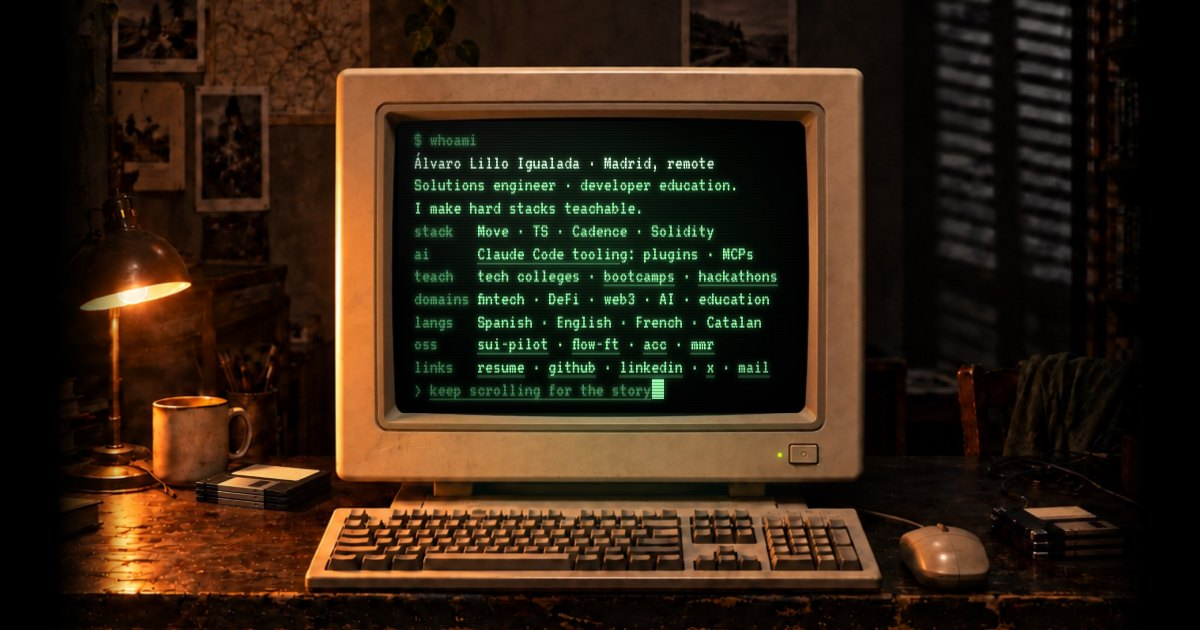
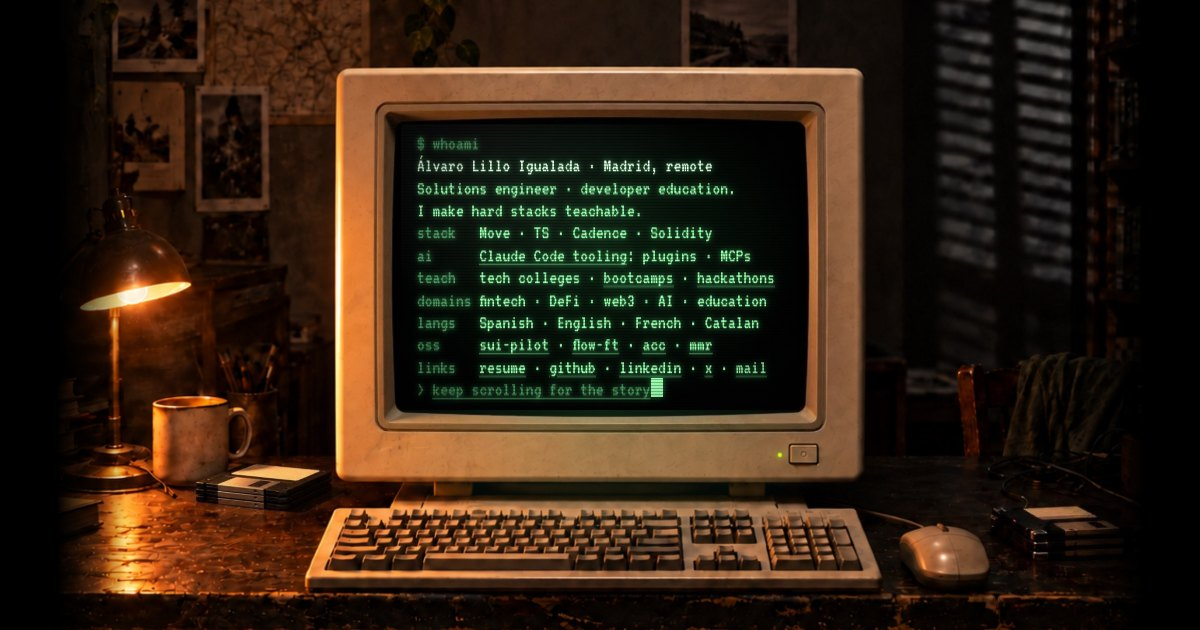
simplify
measure-screen.py takes the innermost sample per side, so a curved glass
yields the rectangle inside its corners and the INSET line is pasted as-is
again; style.css uses that line. retouch-room.py is a CLI (room, out, edit,
crop offset/size, box, feather) instead of hardcoded floppy calls; it
reproduces the committed room.jpg byte for byte. README wording split.

Changed region(s): [[0.3392, 0.2111, 0.6475, 0.6635]]

diff --git a/site/style.css b/site/style.css
@@ -43,7 +43,7 @@ a { color: inherit; }
 .stage {
   position: absolute;
   --ar: 1;
-  --sx: .3135; --sy: .3310; --sw: .3720; --sh: .2690;   /* assets/room.jpg, 2048x2048: the glass is slightly curved, so this is the rectangle inside its corners (measure-screen.py: max of L/T, min of R/B), inset ~0.5% */
+  --sx: .3165; --sy: .3339; --sw: .3660; --sh: .2633;   /* INSET line for assets/room.jpg, 2048x2048 */
   --cx: calc(var(--sx) + var(--sw) / 2);
   --cy: calc(var(--sy) + var(--sh) / 2);
   --cols: 46; --rows: 12; --adv: .4;                 /* the terminal grid; VT323 advances .4em per character */

diff --git a/tools/retouch-room.py b/tools/retouch-room.py
@@ -1,58 +1,67 @@
-"""One-off retouch of assets/room.jpg (2026-09-16): the two stacks of floppy disks were regenerated.
-2026-09-17: the monitor bezel was redone the same way with a 1024px crop at (512, 440), box (70,180,950,845),
-feather 14, prompt "a thin dark inner frame lip of the same depth on all four sides, screen a flat pure
-black rectangle, everything else exactly as it is"; the edit aligned at (0,0), outside-box diff 3.74.
+"""Paste a Nano Banana Pro edit of one region back into assets/room.jpg, leaving the rest of the frame
+unchanged apart from the JPEG re-encode.
 
-How it was done, so it can be repeated for another object:
-1. Cut a 512x512 context crop around each object with sips (offsets below).
+Recipe:
+1. Cut a square context crop around the object: `sips -c N N --cropOffset Y X room.jpg --out crop.jpg`
+   (sips takes height width, then y x).
 2. Ask Nano Banana Pro through the Higgsfield CLI to change only that object, with the crop as image 1
-   and a reference photo of the real object as image 2:
-     higgsfield generate create nano_banana_pro --prompt "..." --image-references crop.jpg \
-       --image-references reference.png --aspect_ratio 1:1 --resolution 1k --wait --json
-3. Run this script: it downsizes each edit to the crop size, aligns it to the original by brute-force
-   offset search on the pixels OUTSIDE the object box, and pastes only the box back through a feathered
-   mask. The blend bleeds about one feather radius past the box; the rest of the frame is unchanged apart
-   from the JPEG re-encode.
-Needs Pillow: python3 -m venv /tmp/venv && /tmp/venv/bin/pip install pillow && /tmp/venv/bin/python tools/retouch-room.py
-Inputs are expected in the working directory: room.jpg (original), left-edit.png, right-edit.png.
+   (and a reference photo of the real object as image 2 when there is one):
+     higgsfield generate create nano_banana_pro --prompt "Change ONLY ... everything else exactly as it is" \
+       --image-references crop.jpg --aspect_ratio 1:1 --resolution 1k --wait --json
+3. Run this script: it resizes the edit to the crop size, aligns it to the original by brute-force
+   offset search on the pixels OUTSIDE the box, and pastes only the box back through a feathered mask.
+   The blend bleeds about one feather radius past the box.
+
+Usage: retouch-room.py <room.jpg> <out.jpg> <edit.png> <X> <Y> <N> <l,t,r,b> [feather=12]
+  X Y N       the crop's offset and size in the room photo
+  l,t,r,b     the box to paste back, in crop coordinates
+Needs Pillow: python3 -m venv /tmp/venv && /tmp/venv/bin/pip install pillow && /tmp/venv/bin/python tools/retouch-room.py ...
+
+Done so far (2048x2048 room.jpg):
+  2026-09-16 floppy stacks: crops 512 at (130,1150) box 110,160,405,290 and (1536,1200) box 205,185,512,330.
+  2026-09-17 monitor bezel: crop 1024 at (512,440) box 70,180,950,845 feather 14 ("a thin dark inner frame
+             lip of the same depth on all four sides, screen a flat pure black rectangle"); aligned at (0,0).
 """
-from PIL import Image, ImageFilter, ImageChops, ImageStat
-room = Image.open('room.jpg').convert('RGB')
-def patch(edit_path, ox, oy, box, feather=12, search=6):
-    """Paste the floppy region of an edited 512-crop back into the room at (ox, oy).
-    box = (l, t, r, b) in crop coordinates. The edit is aligned by brute-force offset search on the
-    pixels OUTSIDE the box, then blended through a feathered mask."""
-    edit = Image.open(edit_path).convert('RGB').resize((512, 512), Image.LANCZOS)
-    orig = room.crop((ox, oy, ox + 512, oy + 512))
-    # alignment: minimise mean abs diff outside the box
-    outside = Image.new('L', (512, 512), 255)
-    from PIL import ImageDraw
-    ImageDraw.Draw(outside).rectangle([box[0]-20, box[1]-20, box[2]+20, box[3]+20], fill=0)
-    best = (1e9, 0, 0)
-    for dx in range(-search, search + 1):
-        for dy in range(-search, search + 1):
-            shifted = ImageChops.offset(edit, dx, dy)
-            diff = ImageChops.difference(shifted, orig).convert('L')
-            score = ImageStat.Stat(diff, mask=outside).mean[0]
-            if score < best[0]: best = (score, dx, dy)
-    score, dx, dy = best
-    base_score = ImageStat.Stat(ImageChops.difference(edit, orig).convert('L'), mask=outside).mean[0]
-    print(f'{edit_path}: outside-box mean diff {base_score:.2f} -> {score:.2f} at offset ({dx},{dy})')
-    # A best offset on the search boundary means the true offset is outside the window, and ImageChops.offset
-    # wraps pixels around the crop edge: refuse rather than composite a misaligned patch.
-    if score > base_score or abs(dx) == search or abs(dy) == search:
-        raise SystemExit(f'{edit_path}: alignment failed ({score:.2f} at {dx},{dy}); nothing written')
-    edit = ImageChops.offset(edit, dx, dy)
-    mask = Image.new('L', (512, 512), 0)
-    ImageDraw.Draw(mask).rectangle(list(box), fill=255)
-    mask = mask.filter(ImageFilter.GaussianBlur(feather))
-    blended = Image.composite(edit, orig, mask)
-    room.paste(blended, (ox, oy))
-    return score
-patch('left-edit.png', 130, 1150, (110, 160, 405, 290))
-patch('right-edit.png', 1536, 1200, (205, 185, 512, 330))
-room.save('room-fixed.jpg', quality=88, subsampling=0, optimize=True)
-import os; print('room-fixed.jpg', os.path.getsize('room-fixed.jpg'), 'bytes')
-# proof crops for review
-room.crop((130, 1150, 642, 1662)).save('fixed-left.jpg', quality=90)
-room.crop((1536, 1200, 2048, 1712)).save('fixed-right.jpg', quality=90)
+import os, sys
+from PIL import Image, ImageFilter, ImageChops, ImageStat, ImageDraw
+
+def die(msg):
+    raise SystemExit(f"retouch-room: {msg}")
+
+if len(sys.argv) not in (8, 9):
+    die(__doc__.split("Usage: ")[1].split("\n")[0])
+src, out, edit_path = sys.argv[1:4]
+try:
+    ox, oy, n = (int(v) for v in sys.argv[4:7])
+    box = tuple(int(v) for v in sys.argv[7].split(","))
+    feather = int(sys.argv[8]) if len(sys.argv) == 9 else 12
+    if len(box) != 4: raise ValueError
+except ValueError:
+    die("X, Y, N and feather must be integers and the box four comma-separated integers")
+
+room = Image.open(src).convert("RGB")
+edit = Image.open(edit_path).convert("RGB").resize((n, n), Image.LANCZOS)
+orig = room.crop((ox, oy, ox + n, oy + n))
+
+# alignment: minimise the mean abs diff outside the box
+outside = Image.new("L", (n, n), 255)
+ImageDraw.Draw(outside).rectangle([box[0] - 20, box[1] - 20, box[2] + 20, box[3] + 20], fill=0)
+def score(img):
+    return ImageStat.Stat(ImageChops.difference(img, orig).convert("L"), mask=outside).mean[0]
+search = 8
+base = score(edit)
+best = min(((score(ImageChops.offset(edit, dx, dy)), dx, dy) for dx in range(-search, search + 1) for dy in range(-search, search + 1)))
+s, dx, dy = best
+print(f"outside-box mean diff {base:.2f} -> {s:.2f} at offset ({dx},{dy})")
+# A best offset on the search boundary means the true offset is outside the window, and ImageChops.offset
+# wraps pixels around the crop edge: refuse rather than composite a misaligned patch.
+if s > base or abs(dx) == search or abs(dy) == search:
+    die(f"alignment failed ({s:.2f} at {dx},{dy}); nothing written")
+edit = ImageChops.offset(edit, dx, dy)
+
+mask = Image.new("L", (n, n), 0)
+ImageDraw.Draw(mask).rectangle(list(box), fill=255)
+mask = mask.filter(ImageFilter.GaussianBlur(feather))
+room.paste(Image.composite(edit, orig, mask), (ox, oy))
+room.save(out, quality=88, subsampling=0, optimize=True)
+print(out, os.path.getsize(out), "bytes")

diff --git a/tools/measure-screen.py b/tools/measure-screen.py
@@ -9,11 +9,13 @@ Usage: measure-screen.py <image> [threshold=45] [centre_y_fraction=0.5]
                      is not pure black; above ~90 the scan escapes the bezel and reports the room.
   centre_y_fraction  where to start the scan, as a fraction of image height (0.47 for assets/room.jpg, whose screen centre sits above the middle).
 
-Two lines are printed: the raw rectangle, and the same rectangle inset ~1.2% of its width and ~1.6%
-of its height per side so the text stays off the curved glass edge. Paste the INSET line into
-style.css. The tool refuses to print CSS when the samples do not describe one plausible screen.
+Each edge is sampled at several points and the INNERMOST sample wins (max of the left and top samples,
+min of the right and bottom), so a CRT glass whose edges bow outwards yields the rectangle inside its
+corners, where text is safe. Two lines are printed: that rectangle, and the same rectangle inset ~1.2%
+of its width and ~1.6% of its height per side so the text stays off the glass edge. Paste the INSET
+line into style.css. The tool refuses to print CSS when the samples do not describe one plausible screen.
 """
-import os, statistics, struct, subprocess, sys, tempfile
+import os, struct, subprocess, sys, tempfile
 
 def die(msg):
     raise SystemExit(f"measure-screen: {msg}")
@@ -95,7 +97,7 @@ for name, s, span in (("left", L, w), ("right", R, w), ("top", Tp, h), ("bottom"
         die(f"only {len(s)} {name} samples (need {MIN}); the start point is probably not on the screen")
     if max(s) - min(s) > 0.08 * span:
         die(f"{name} samples disagree by more than 8% of the image; the scan hit more than one dark object")
-l, r, t, b = statistics.median(L), statistics.median(R), statistics.median(Tp), statistics.median(B)
+l, r, t, b = max(L), min(R), max(Tp), min(B)   # innermost sample per side: safe inside a curved glass
 if not (0 < l < r < w - 1 and 0 < t < b < h - 1):
     die(f"the rectangle runs to the image edge: left={l} right={r} top={t} bottom={b}")
 aspect = (r - l) / (b - t)

diff --git a/README.md b/README.md
@@ -5,7 +5,7 @@ Personal site of Álvaro Lillo Igualada. Static HTML, CSS and one script, no bui
 - `site/` is the published directory (see `netlify.toml`).
 - `site/index.html` is the landing page: a CRT monitor on a desk that types the page as the visitor scrolls: a welcome screen, the briefing with the contact links, then five story chapters named by stage. All story copy lives in the `<article class="chapter">` blocks; the screen is their visual twin. The screen is a fixed terminal grid of 46 columns by 12 rows on every device, so each chapter must fit that box (`tools/check-viewports.mjs` fails when one does not). ASCII art goes in `<pre>` and must be plain ASCII: VT323 has no box-drawing glyphs. The briefing's last line leads into the story and the story's last line leads back to the briefing; a focus-only skip link serves keyboard users. The meta tags carry their own copy. Without JavaScript the chapters render as a plain page.
 - `site/crt.js` drives the typing from the scroll position. `?show=<chapter id>` renders one chapter fully typed and static (useful for screenshots and the social card).
-- `site/style.css` positions the text layer over the screen and adds the phosphor glow, scanlines and light spill. The room and the monitor are one square photo, `assets/room.jpg` (2048×2048, generated with Codex from the previous render as reference; the floppy disks and later the monitor bezel were retouched with Nano Banana Pro and pasted back through `tools/retouch-room.py`, so only those regions changed and the file is a fresh JPEG re-encode; the bezel edit gave the glass a recessed inner frame on all four sides and a slight CRT curve, so the screen rectangle in `style.css` is the one inside the curved corners). The stage covers the viewport and is cropped around the centre of the screen; in portrait it zooms in until the screen spans 90% of the width, and in landscape at least 500px tall it never scales past the point where the whole computer (wall above the bezel to the desk edge) fits the height, so wide displays get a narrower photo whose sides fade to black. The text layer is pinned to the black screen through `--ar` (the photo's aspect ratio) and the fractions `--sx/--sy/--sw/--sh` in `style.css`. If you regenerate the photo: set `--ar`, run `python3 tools/measure-screen.py site/assets/room.jpg 45 0.47` and paste the INSET line it prints (if the glass is curved and the samples disagree, use the innermost sample on each side).
+- `site/style.css` positions the text layer over the screen and adds the phosphor glow, scanlines and light spill. The room and the monitor are one square photo, `assets/room.jpg` (2048×2048, generated with Codex from the previous render as reference). The floppy disks and later the monitor bezel were retouched with Nano Banana Pro and pasted back through `tools/retouch-room.py`, so only those regions changed and the file is a fresh JPEG re-encode. The stage covers the viewport and is cropped around the centre of the screen; in portrait it zooms in until the screen spans 90% of the width, and in landscape at least 500px tall it never scales past the point where the whole computer (wall above the bezel to the desk edge) fits the height, so wide displays get a narrower photo whose sides fade to black. The text layer is pinned to the black screen through `--ar` (the photo's aspect ratio) and the fractions `--sx/--sy/--sw/--sh` in `style.css`. If you regenerate the photo: set `--ar`, run `python3 tools/measure-screen.py site/assets/room.jpg 45 0.47` and paste the INSET line it prints (it takes the innermost sample on each side, so a curved glass yields the rectangle inside its corners).
 - `tools/` holds dev-only checks (`pnpm -C tools install` once). `node tools/check-viewports.mjs [--only ids] [--sheet out.html]` loads every chapter at 18 viewports in the installed Chrome and fails on a chapter that overflows the grid, a clipped screen, a cropped keyboard on landscape displays of 500px or more, a missing fade where the photo does not fill the viewport, type under 15px, anything the page logs or fails to load, or a behaviour check (the welcome self-types, a resize keeps the screen, the skip link and the two in-screen links land where they say, old deep-link ids resolve, reduced motion and no-JS render); `--sheet` writes a single-file contact sheet of screenshots. `tools/page.mjs` holds what the two scripts share. `node tools/social-card.mjs` recaptures `site/assets/social.jpg` (1200×630) from `index.html?show=briefing`.
 - `site/resume.pdf` is the downloadable résumé, built from `profile/resume.html` with `profile/build-resume.sh`.
 - `profile/profile.md` is the source of truth for every claim on the site, the résumé and LinkedIn. Change it there first.
